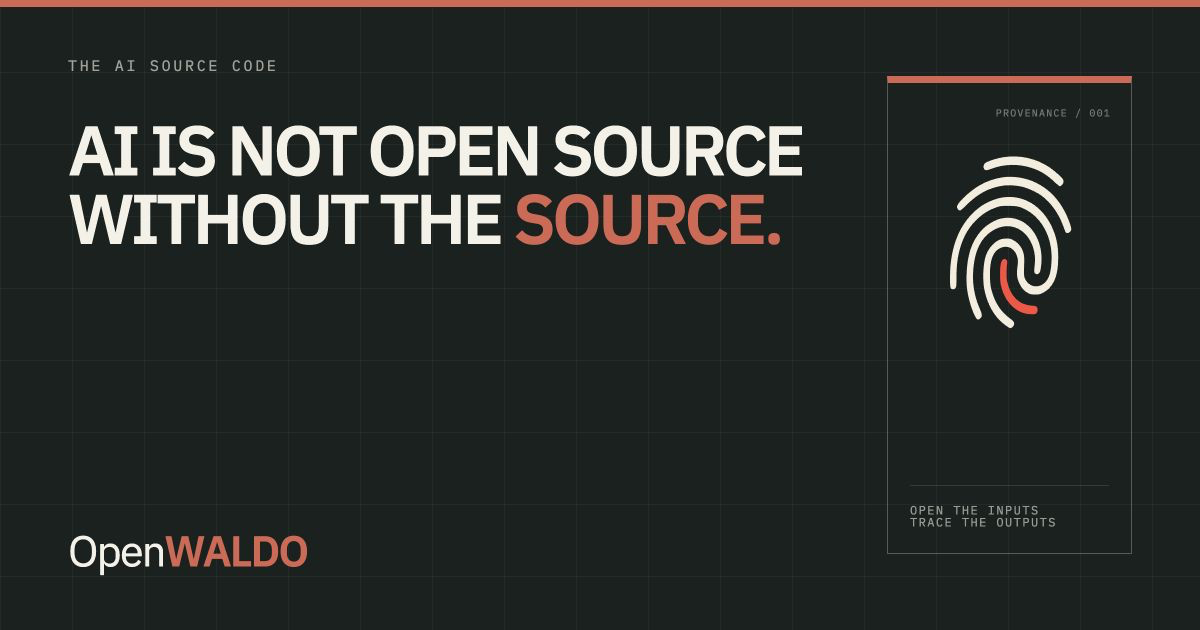
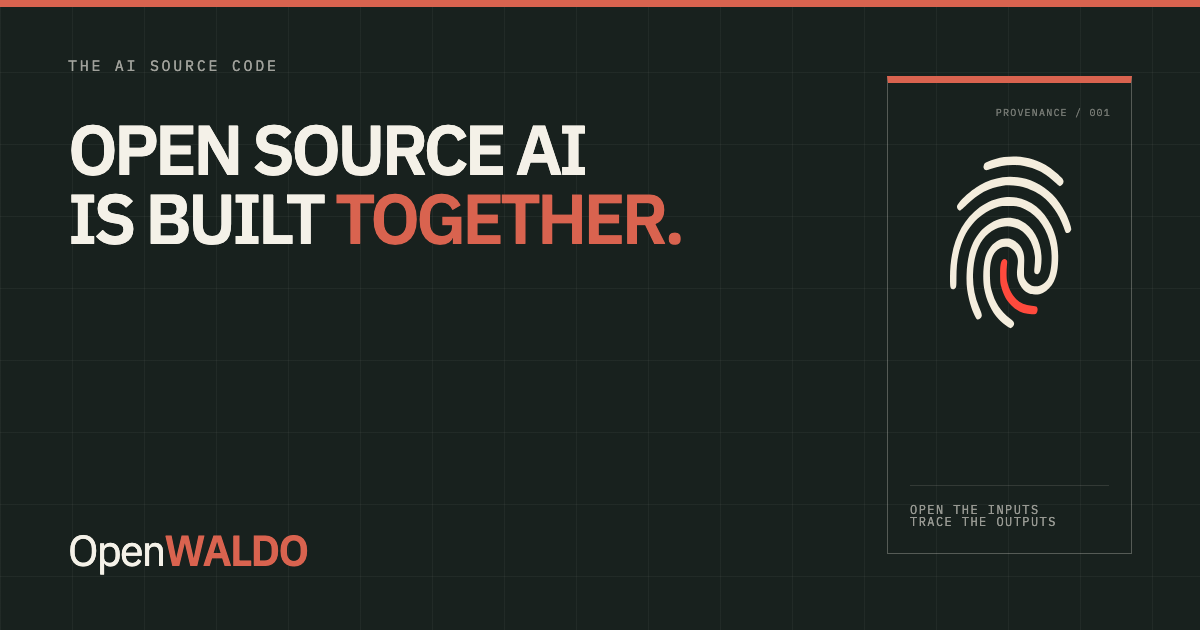
center unfurler on community

diff --git a/assets/og-source.html b/assets/og-source.html
@@ -126,7 +126,7 @@
     <main class="card">
       <div class="copy">
         <p class="eyebrow">THE AI SOURCE CODE</p>
-        <h1>AI IS NOT OPEN SOURCE<br />WITHOUT THE <span>SOURCE.</span></h1>
+        <h1>OPEN SOURCE AI<br />IS BUILT <span>TOGETHER.</span></h1>
       </div>
       <p class="brand">Open<strong>WALDO</strong></p>
       <div class="mark-panel">
